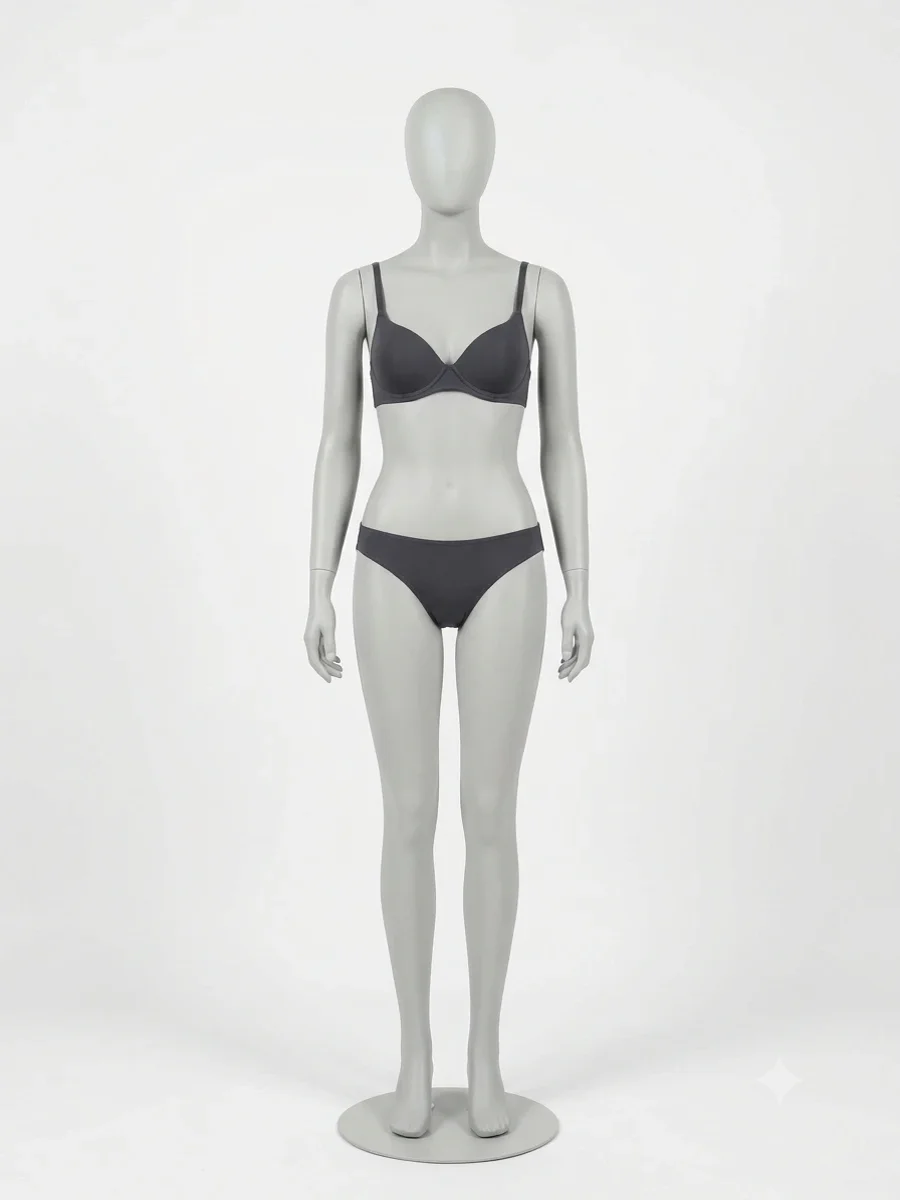
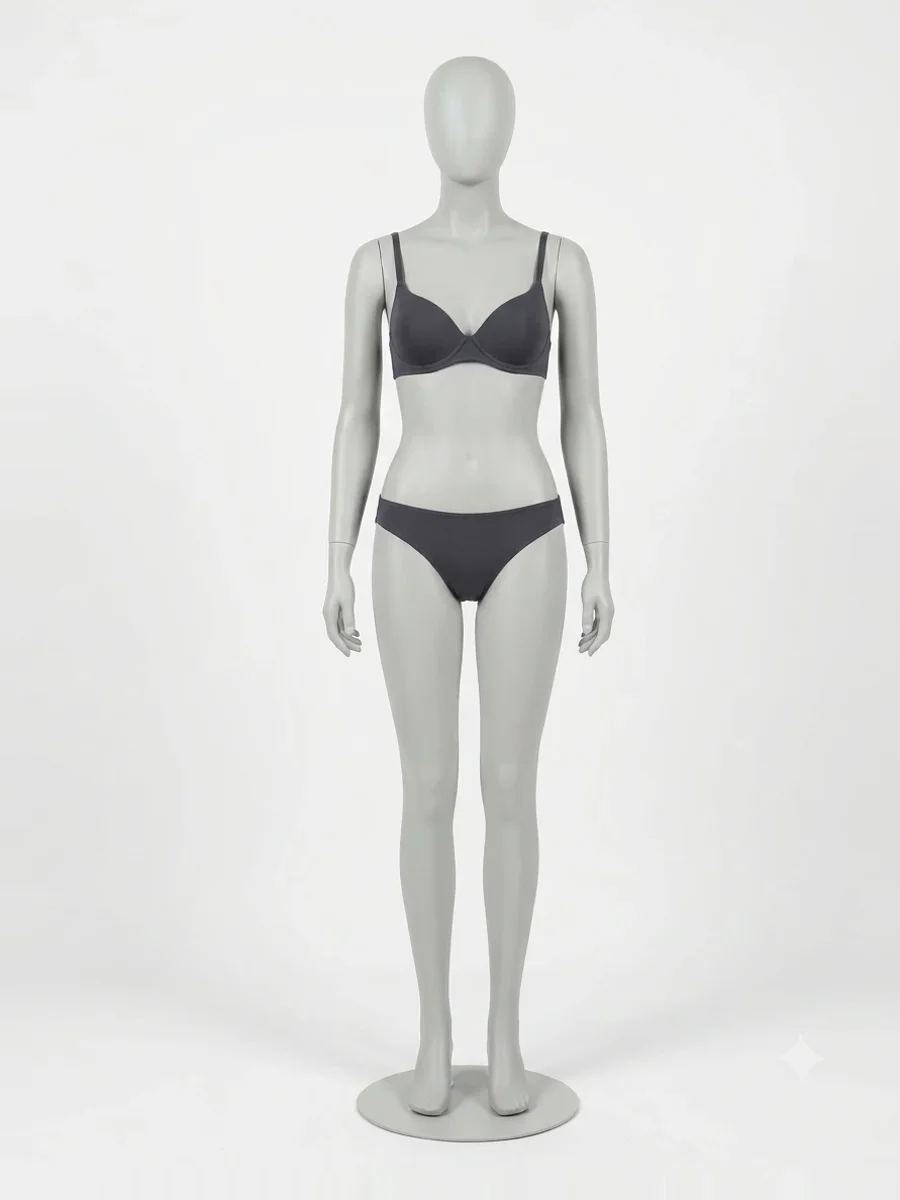
Women's outfit photos: all 8 combinations, same mannequin scale
- Added top+outer, bottom+outer and top+bottom+outer photos.
- All 8 photos are re-cropped around the mannequin (head to stand) and
  scaled to the same height in a 3:4 frame; missing edges are filled by
  extending the edge pixels so the background stays continuous.
- Photo frame is 3:4; the "입어 본 핏" box is hidden when it has no lines.

Claude-Session: https://claude.ai/code/session_01W2GDmeryXk8orsGLPLLstD

Changed region(s): [[0.3422, 0.0308, 0.6844, 0.9867]]

diff --git a/app/(tabs)/avatar/page.tsx b/app/(tabs)/avatar/page.tsx
@@ -113,7 +113,7 @@ export default function AvatarPage() {
           </span>
           {/* 2D: 정면 아바타 위에 실제 옷 사진(누끼)을 실측대로 겹쳐요 · 3D: 드래그해서 돌려 보고, 정면·측면·후면 버튼으로 각도를 바꿔요 */}
           {look ? (
-            <div className="relative h-[360px] w-full overflow-hidden rounded-[8px] bg-[#f3f3f3]">
+            <div className="relative mx-auto aspect-[3/4] h-[380px] overflow-hidden rounded-[8px] bg-[#eeeeee]">
               <img
                 key={look.src}
                 src={look.src}
@@ -170,7 +170,7 @@ export default function AvatarPage() {
           </button>
         </div>
 
-        {garments.length > 0 && (
+        {reports.some((r) => r.lines.length) && (
           <section className="flex flex-col gap-2 rounded-[10px] border border-line bg-white p-3">
             <div className="flex items-center gap-2 leading-[1.4]">
               <h2 className="flex-1 text-[13px] font-bold">입어 본 핏</h2>

diff --git a/lib/looks.ts b/lib/looks.ts
@@ -24,7 +24,7 @@ export const LOOK_SETS: LookSet[] = [
     // 여성 첫 출근 룩 (던스트 브이넥 스웨터 · 세미 부츠컷 슬랙스 · 시야쥬 부클 롱코트)
     gender: "female",
     parts: { top: "dunst-classic-vneck-sweater", bottom: "dunst-semi-bootcut-slacks", outer: "siyazu-boucle-long-coat" },
-    photos: keys("female", ["base", "top", "bottom", "outer", "top+bottom"]),
+    photos: keys("female", ["base", "top", "bottom", "outer", "top+bottom", "top+outer", "bottom+outer", "top+bottom+outer"]),
   },
 ];
 
